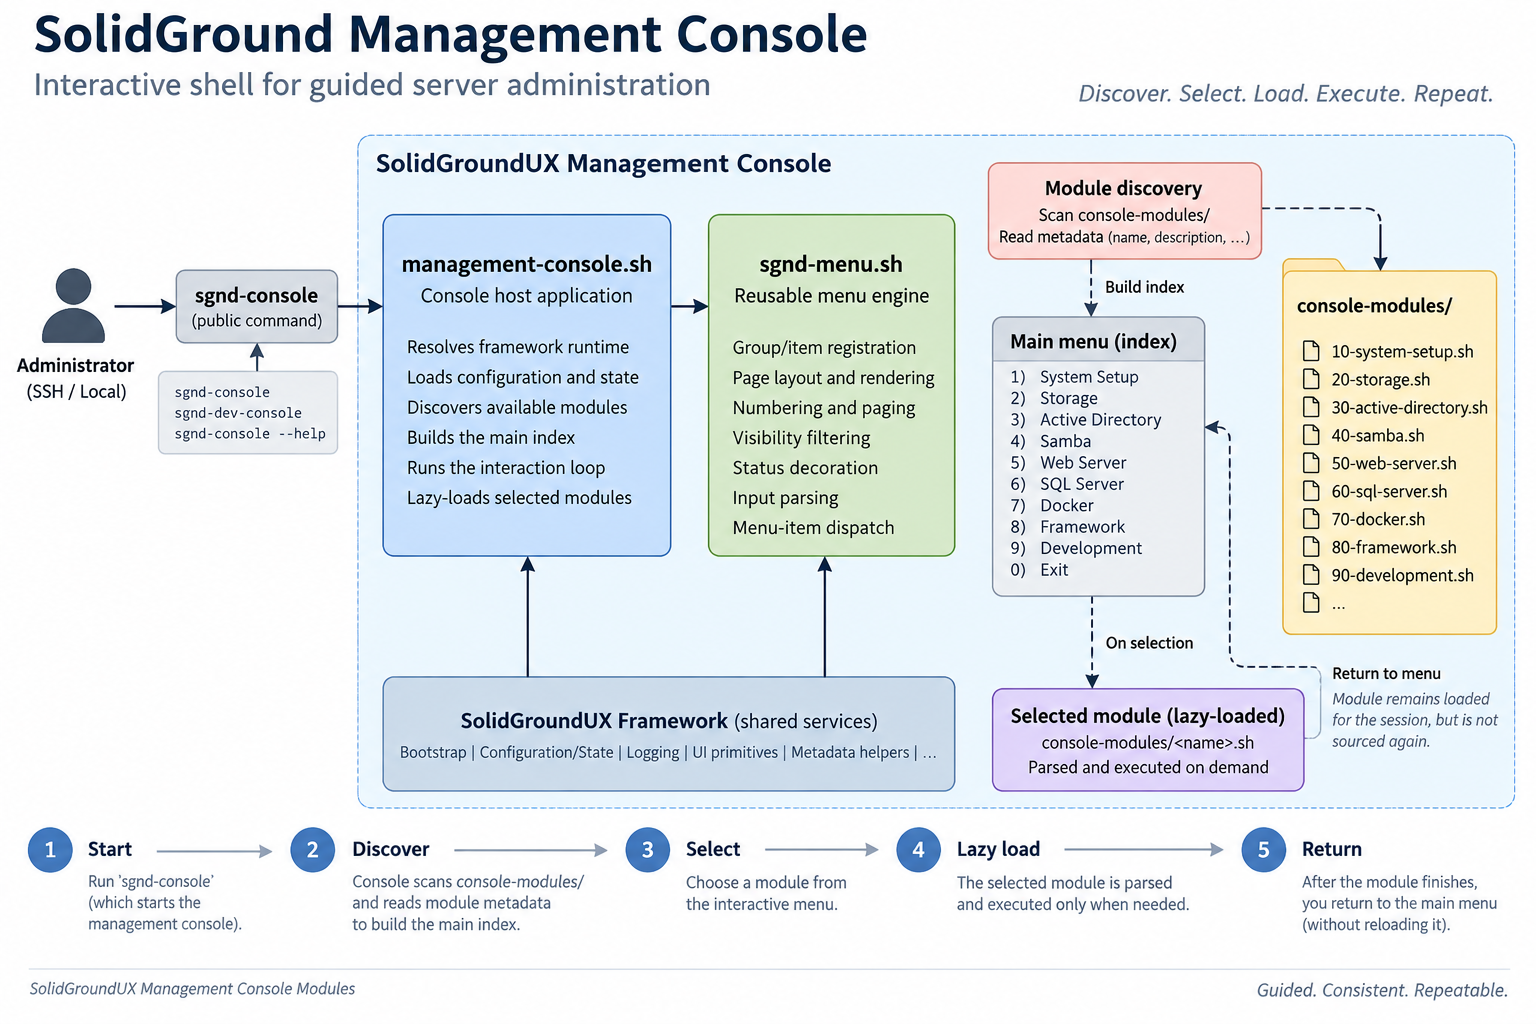
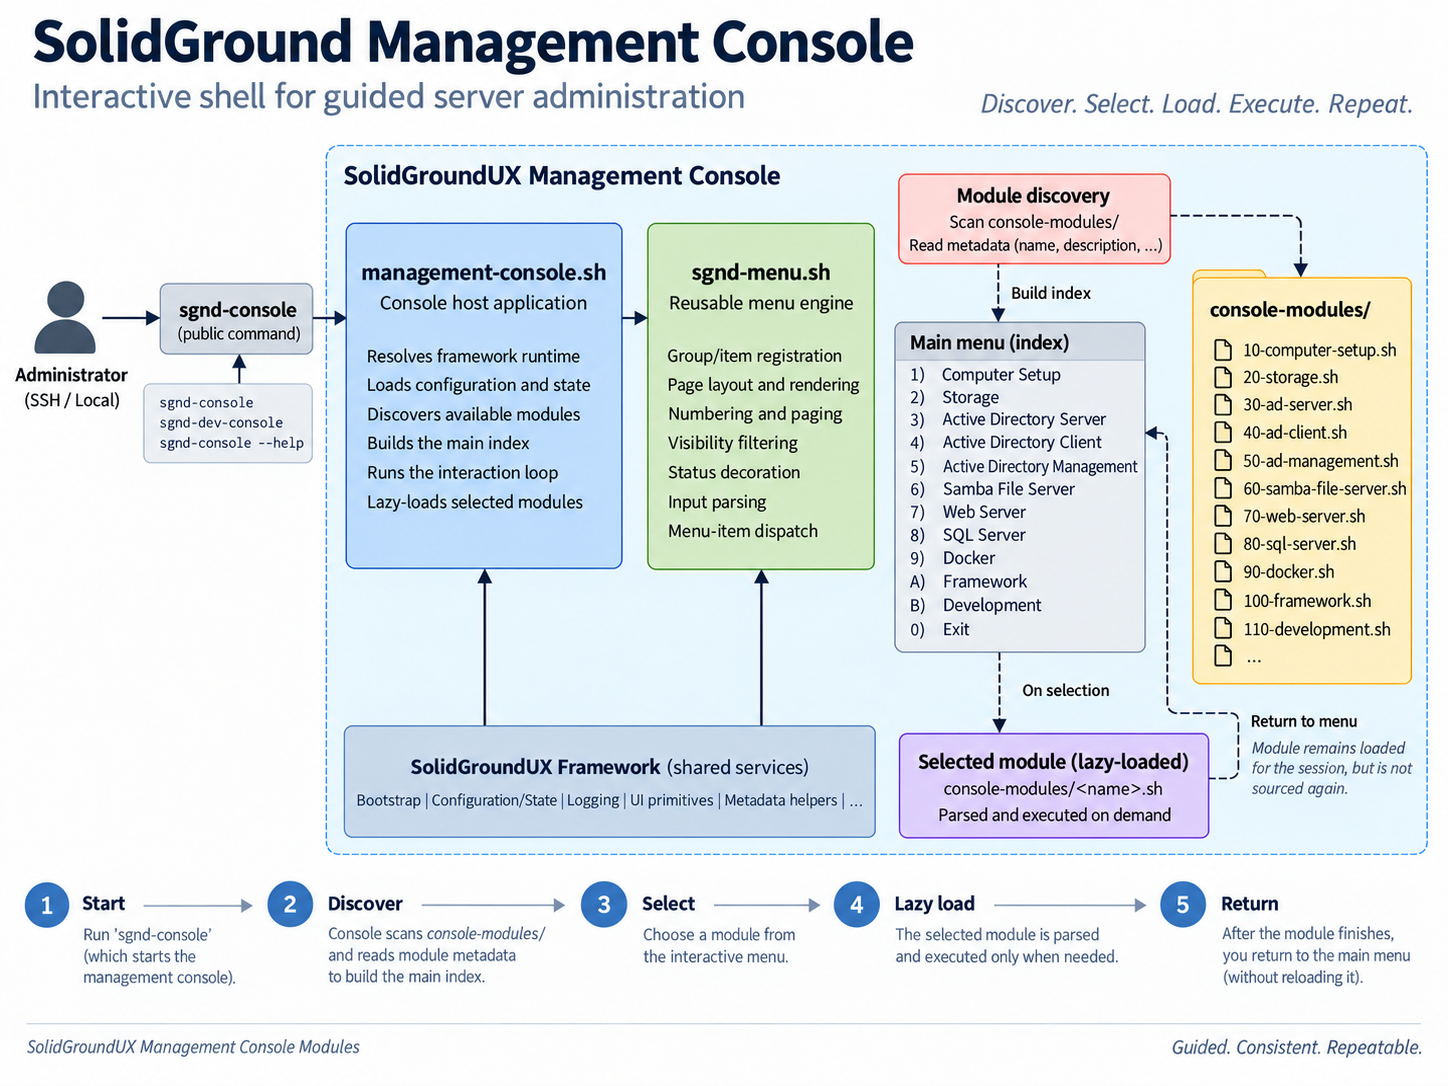
Release 2.1.2627808

Changed region(s): [[0.0, 0.0, 0.9945, 0.9062], [0.808, 0.9375, 0.9945, 1.0], [0.0, 0.9375, 0.2486, 0.9688]]

diff --git a/CHANGELOG.md b/CHANGELOG.md
@@ -2,22 +2,28 @@
 
 All notable changes to SolidGroundUX Management Console Modules are documented in this file.
 
-The format is inspired by *Keep a Changelog* while remaining focused on
-practical framework development.
+The format is inspired by *Keep a Changelog* while remaining focused on practical framework development.
 
 ## Backlog
 
 ### AD Server module
+
 - Add support for joining an existing Active Directory domain as an additional writable domain controller, including discovery/authentication, additional-DC provisioning, Kerberos/resolver/DNS configuration, replication validation, and compound subtask progress reporting. This is a post-2.1 feature.
+
+### SolidGroundUX
+
+- Add a Management Console action to inspect and repair SolidGroundUX filesystem ownership/permissions by invoking the Framework-owned `sgnd-repair-permissions.sh` policy engine.
 
 ## Unreleased
 
-## Release 2.1.2627700
+## Release 2.1.2627801
 
 ### SolidGroundUX setup
+
 - Renamed the SolidGroundUX lifecycle entry in the Management Console from **Release manager** to **Setup** and switched it to the canonical `/var/lib/solidgroundux/sgnd-setup.sh` entry point, with the former release-manager path retained as a transition fallback.
 
 ### Management Console
+
 - Added a loaded-module registry view under **SolidGroundUX -> Framework Diagnostics**, showing module Shortname, Title, Type, Version, Build, load timestamp, and source, with selectable detailed metadata including Description.
 - Expanded the loaded-module registry schema and registration flow to retain canonical header identity for modules loaded during the current console session.
 - Changed console navigation so `Esc` is the canonical return/exit key: `Esc` returns from a module page to the main index and, on the main index, asks for confirmation before exiting.
@@ -26,9 +32,11 @@ practical framework development.
 - Made lazy module loading transactional so registrations created during a failed module load are rolled back before returning, preventing duplicate groups/items when the module is retried.
 
 ### Storage module
+
 - Corrected the indentation of the **Unmount storage** and **Expand storage** menu entries.
 
 ### Samba file server
+
 - Added dedicated `manage-samba-users.sh` ownership for standalone Samba user/group administration, separating identity management from share/directory management.
 - Added a single **Manage users and groups** entry beneath Samba Shares and removed standalone identity CRUD from the share manager.
 - Added a comprehensive standalone Samba identity overview including user group memberships.
@@ -38,24 +46,25 @@ practical framework development.
 - Verified fresh standalone mode end-to-end and verified both standalone -> AD and AD -> standalone authentication-mode transitions.
 
 ### Docker module
-- Fixed the malformed first line in `manage-docker-server.sh` so the script has a valid shebang/header boundary.
-- Completed the end-to-end Docker host/container-management verification pass for the current 2.1 cycle.
 
-### Development templates
-- Placed the MCM-owned `mod-template.sh` in the shared `/usr/local/share/solidgroundux/convenience-templates` library so `create-workspace` can discover it alongside the SDK-owned executable, library, documentation, and wrapper templates.
+- Fixed the malformed first line in `manage-docker-server.sh` so the script has a valid shebang/header boundary.
 
 ### Storage module
+
 - Added recovery for restored or reattached `SGND_STORAGE` volumes whose filesystem UUID no longer matches the SolidGroundUX-managed `/etc/fstab` entry; persistence reconciliation can identify an unambiguous managed volume, confirm the repair, update persistent configuration, and remount it without reprovisioning.
 - Added completion-status propagation for composite storage configuration so completed storage subtasks are reflected by their Management Console status icons.
 
 ### AD Server module
+
 - Added tracked subtask reporting for the composite domain-provisioning workflow so each underlying provisioning action is reflected in the Management Console after **Provision domain** completes.
 - Verified fresh Active Directory Domain Controller provisioning end-to-end, including DNS, Kerberos, LDAP, registration, validation, and status.
 
 ### AD Management
+
 - Added multi-select user/group management for bulk Active Directory actions and completed the current 2.1 management workflow validation.
 
 ### AD Client module
+
 - Added tracked subtask reporting for the composite domain-join workflow so completed, failed, warning, and unexecuted join steps are reflected correctly in Management Console status.
 - Changed an already-joined domain preflight result from failure to warning, preventing an existing membership from being presented as an error.
 - Added host Kerberos keytab validation to AD client join and validation.
@@ -63,6 +72,7 @@ practical framework development.
 - Fixed domain leave so a single leave operation immediately clears realm membership and deactivates SSSD; verified with repeated join/leave testing against `testadura2.hq`.
 
 ### Samba file server
+
 - Simplified Samba authentication preparation so the server derives its mode from host Active Directory membership: AD members are configured for ADS integration and non-members for standalone operation, leaving domain membership ownership with the AD Client module.
 - Completed Samba ADS integration and validation around Samba machine trust, Winbind domain state, NETLOGON connectivity, SSSD-backed host membership, and DNS verification.
 - Improved Samba share-root preparation and validation so managed share paths remain traversable by authorized identities.
@@ -86,6 +96,7 @@ practical framework development.
 - Verified Samba directory management and standalone <-> Active Directory transitions end-to-end.
 
 ### Webserver module
+
 - Added completion status reporting for web-server preparation steps, including separate status for Nginx installation and web-service startup.
 - Changed composite web-server preparation to persist child action results in the Management Console, matching the tracked workflow behavior used by other compound modules.
 - Standardized web-server action endings and removed redundant menu wait times for actions that handle their own continuation dialogs.
@@ -94,25 +105,30 @@ practical framework development.
 - Verified the Web Server and publishing workflows end-to-end, including site management, content publishing, documentation publishing, validation, and status.
 
 ### SQL Server module
+
 - Added persistent child-action progress reporting for **Prepare SQL Server**, covering repository configuration, engine installation, SQL Server setup, and SQL Server tools installation.
 - Reordered the SQL Server menu so **Install SQL Server tools** is grouped with the other **Prepare SQL Server** child actions, keeping menu order aligned with the compound workflow.
 
 ## Release 2.1.2626712
 
 ### Changed
+
 - Samba share creation now selects a storage location immediately below the configured SolidGroundUX storage root before asking for the share name; the share path is derived from that location and existing backing directories can be reused.
 - Standardized Management Console public management wrappers on the current canonical wrapper template rather than direct fixed `/usr/local/libexec` execution.
 
 ### Removed
+
 - Removed remaining references to the superseded `sgnd-framework-smoketest` command and stale `framework-smoketest.sh` implementation; Framework testing uses the Framework-owned `sgnd-smoketest` command.
 
 ### Fixed
+
 - Fixed Active Directory shared management code so it invokes the canonical identity-management executable directly instead of depending on the Management Console's private module-script runner.
 - Fixed Active Directory server provisioning so resolver handoff waits for IPv4 DNS port 53 to become available before starting Samba, preventing intermittent DNS-listener failures during fresh domain-controller provisioning.
 - Fixed Active Directory Management module metadata formatting that caused lazy-load metadata validation to fail and subsequent retries to produce duplicate menu registrations.
 - Fixed Samba managed-share discovery and validation so shares can reside beneath selected top-level storage locations rather than being restricted to `/srv/storage/shares`.
 
 ### Verified
+
 - Verified fresh Active Directory Domain Controller provisioning end-to-end on Ubuntu 24.04, with all provisioning, DNS, Kerberos, LDAP, registration, validation and status steps completing successfully.
 - Verified Active Directory Client workflow on a fresh Ubuntu system joining an existing known-good Active Directory domain.
 
@@ -209,4 +225,3 @@ practical framework development.
 - Fixed web publishing DRYRUN behavior so publishing state, SSH setup, Git checkout activity, and destination content are not persistently changed during preview.
 - Fixed malformed enum argument specifications in `framework-smoketest.sh`, `manage-solidgroundux.sh`, and `set-identity.sh` so allowed values are registered correctly.
 - Fixed a stray token in `framework-smoketest.sh` that prevented the script from parsing.
-
